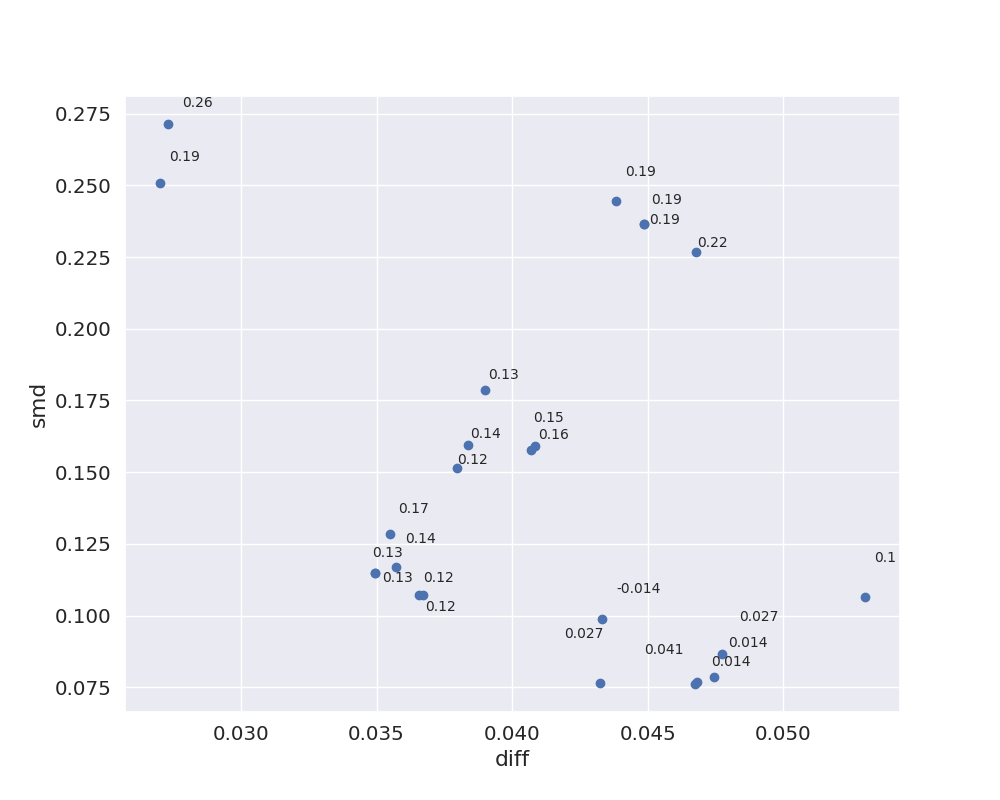
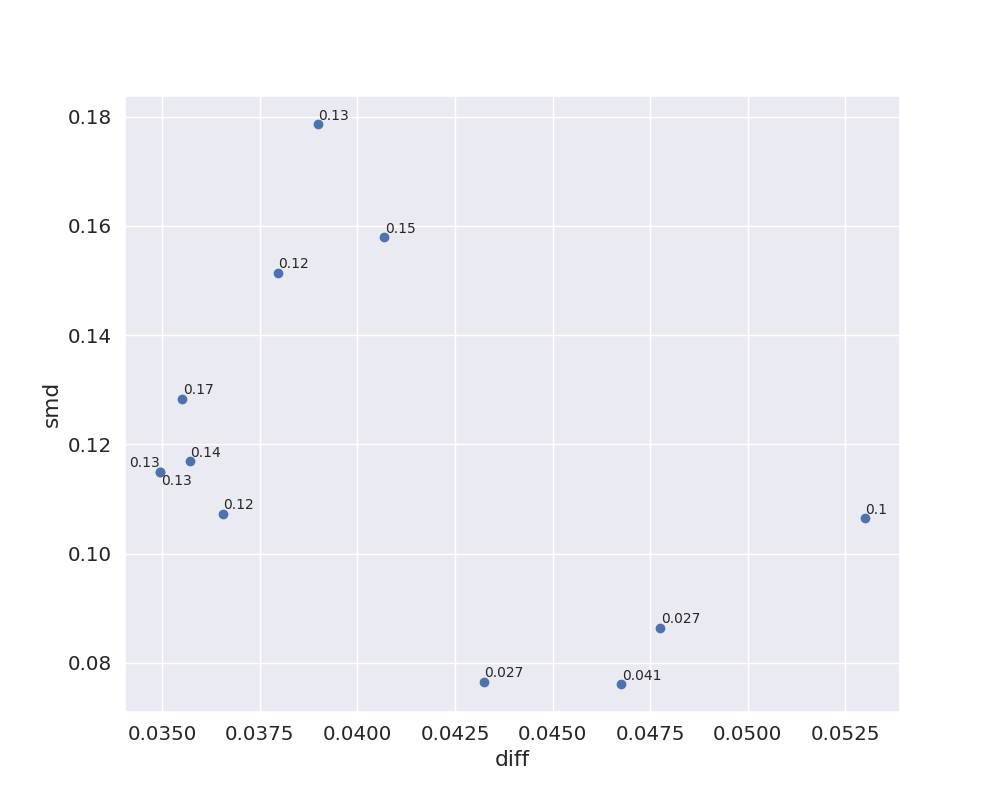
Better looking figures

diff --git a/experiment/horse/compare_propensity_matching.py b/experiment/horse/compare_propensity_matching.py
@@ -24,6 +24,38 @@ import tqdm
 dirname = os.path.split(os.path.dirname(__file__))[1]
 
 
+names = {
+    'matchitglm_nearest': '',
+    'matchitglm_optimal': 'GLM',
+    'matchitgam_nearest': '',
+    'matchitgam_optimal': 'GAM',
+    'matchitelasticnet_nearest': '',
+    'matchitelasticnet_optimal': 'ElasticNet',
+    'matchitrpart_nearest': '',
+    'matchitrpart_optimal': 'RPart',
+    'matchitcbps_nearest': '',
+    'matchitcbps_optimal': 'CBPD',
+    'matchitbart_nearest': '',
+    'matchitbart_optimal': 'Bart',
+    'pythonidentitylogistic-regressionbipartify_identity_logistic-regression': 'Bipartify LR',
+    'pythonidentitylogistic-regressionpsmpy_identity_logistic-regression': 'PsmPy LR',
+    'pythonidentityrandom-forestbipartify_identity_random-forest': 'Bipartify RF',
+    'pythonidentityrandom-forestpsmpy_identity_random-forest': 'PsmPy RF',
+    'pythonidentitypsmpybipartify_identity_psmpy': 'Bipartify CLR',
+    'pythonidentitypsmpypsmpy_identity_psmpy': 'PsmPy CLR',
+    'pythonlogitlogistic-regressionbipartify_logit_logistic-regression': '',
+    'pythonlogitlogistic-regressionpsmpy_logit_logistic-regression': '',
+    'pythonlogitrandom-forestbipartify_logit_random-forest': '',
+    'pythonlogitrandom-forestpsmpy_logit_random-forest': '',
+    'pythonlogitpsmpybipartify_logit_psmpy': '',
+    'pythonlogitpsmpypsmpy_logit_psmpy': '',
+    'matchitbipartify_identity_logistic-regression': 'Bipartify LR',
+    'matchitbipartify_identity_psmpy': 'Bipartify CLR',
+    'matchitbipartify_identity_random-forest': 'Bipartify RF',
+    'matchitpsmpy_identity_logistic-regression': 'PsmPy LR',
+    'matchitpsmpy_identity_psmpy': 'PsmPy CLR',
+    'matchitpsmpy_identity_random-forest': 'PsmPy RF',
+}
 
 experiment = {
     'input': {
@@ -197,10 +229,16 @@ targets['method'] = targets.split_id.str.split('split').str[0] + targets['matchi
 rtargets = pd.DataFrame.from_records(real_targets)
 rtargets['method'] = rtargets.split_id.str.split('real').str[0] + rtargets['matching']
 
+target_diff = experiment['input']['simulated_split_target_difference']
+targets['ratio'] = targets['target'].abs() <= target_diff * 0.1
 a = targets.groupby('matching')[['target']].mean().rename(columns={'target': 'diff'}).reset_index()
+# a = targets.groupby('matching')[['ratio']].mean().rename(columns={'ratio': 'diff'}).reset_index()
 b = rtargets
 c = a.merge(b, on='matching', how='inner', validate='1:1')
 
+c = c[~(c.method.str.contains('nearest') | c.method.str.contains('logit'))]
+c['method'] = c['method'].replace(names)
+print(c['method'])
 
 from matplotlib import pyplot as plt
 
@@ -229,7 +267,7 @@ txts = []
 for i, txt in enumerate(c['target']):
     t = plt.gca().annotate('{:.2}'.format(txt), (c.iloc[i]['diff'], c.iloc[i]['smd']), fontsize=10)
     txts.append(t)
-    adjust_text(txts)
+adjust_text(txts)
 plt.savefig('diff_vs_smd_vs_target.png')
 plt.close()
 
